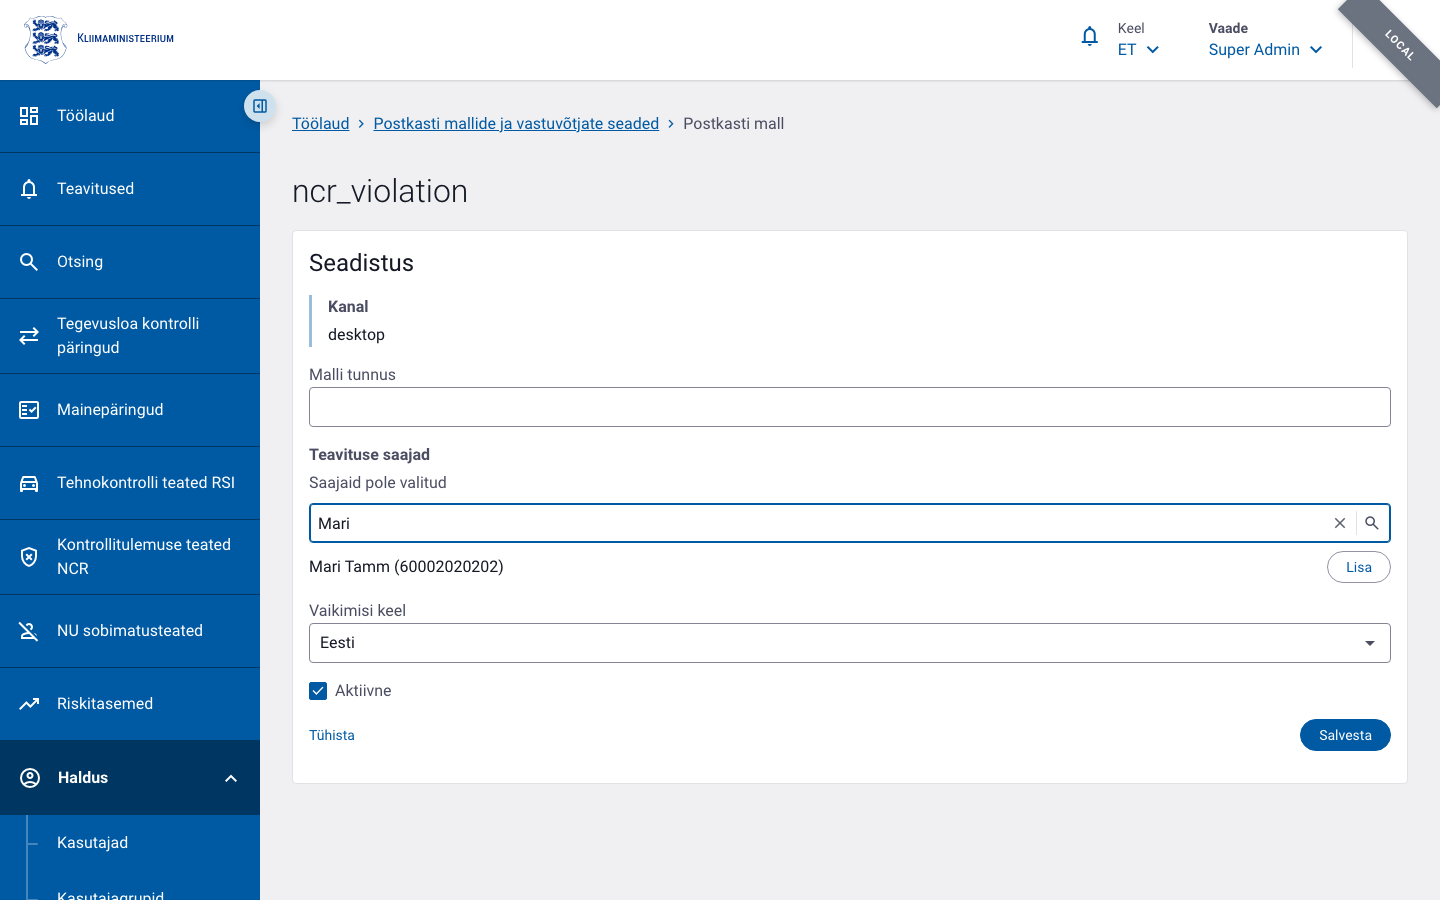
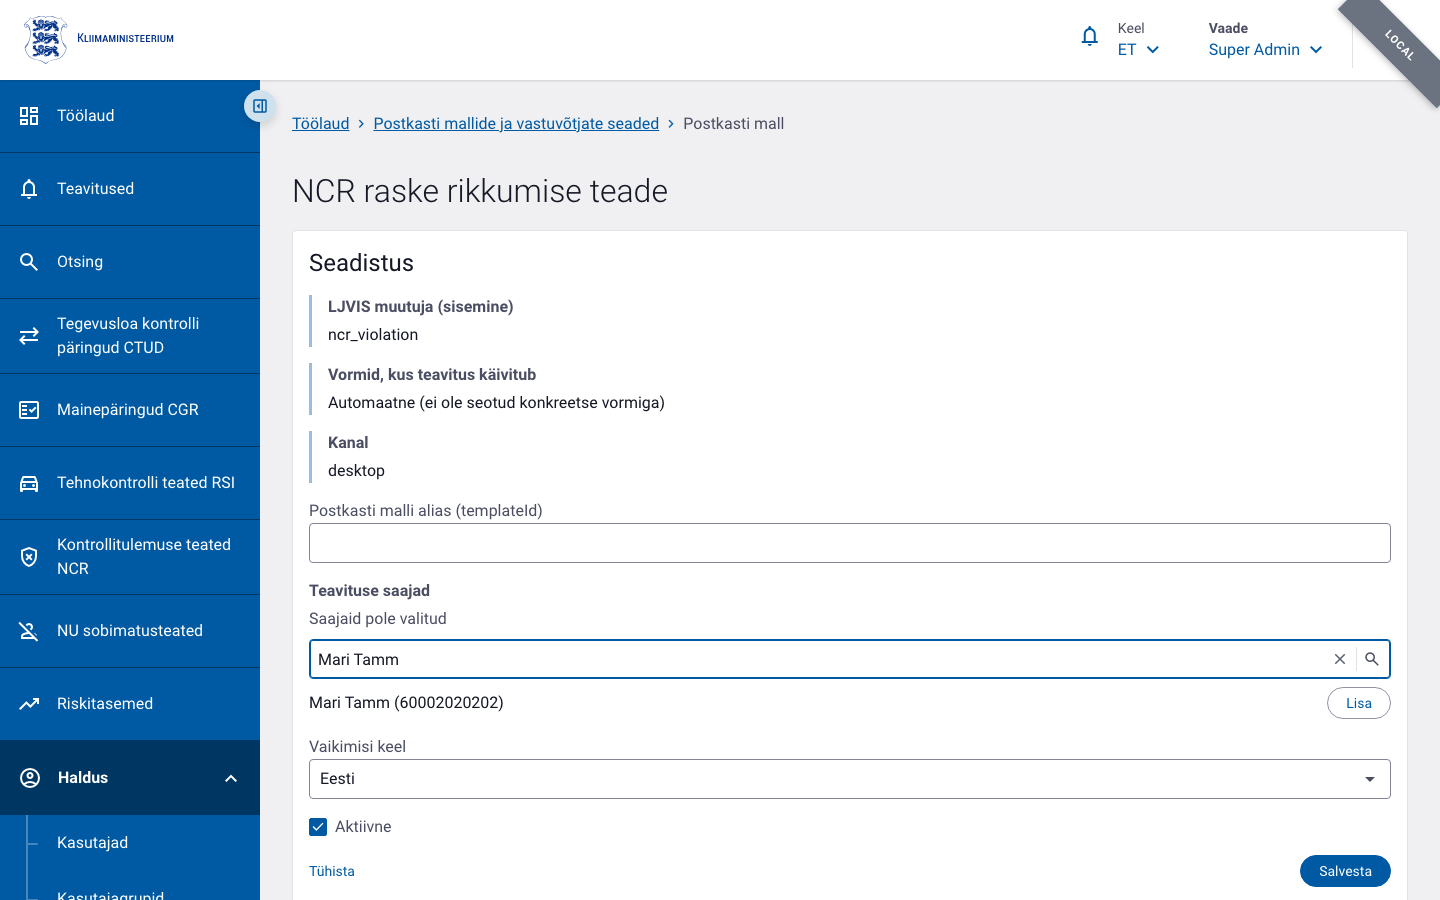
docs(admin-guide): uuendab teavituste halduse ekraanipildid ja juhise
Peegeldab kaks hiljutist muudatust: koondtabel näitab nüüd "Saajad"
veergu (ekraanipilt vahetatud detailvaate asemel), ja saaja otsing
käivitub sisestamise ajal iseseisvalt, mitte Enteri vajutusel. Uued
ekraanipildid tehtud päris brauseris (docker-compose + Playwright),
näitavad täisnime "Mari Tamm" otsingut.

diff --git a/docs/admin-guide/09-teavitused.md b/docs/admin-guide/09-teavitused.md
@@ -161,7 +161,11 @@ teavitus käivitub (**„Vormid, kus teavitus käivitub“**) — teavitused, mi
 tulevad automaatselt sisenevast ERRU sõnumist, mitte kasutaja poolt
 avaldatud LJVIS-vormist, on märgitud kui „Automaatne“.
 
-![Desktop-kanali teavituse vaade](images/09-teavitused/02-desktop-kanali-vaade.png)
+Veerg **„Saajad“** näitab juba koondtabelis, kellele või millisele aadressile
+teavitus läheb — desktop-kanali real kasutaja(te) nime, postkasti kanali real
+vaikimisi vastuvõtja e-posti —, ilma et peaks konkreetset rida avama.
+
+![Postkasti mallide ja vastuvõtjate seaded koos saajate veeruga](images/09-teavitused/02-desktop-kanali-vaade.png)
 
 Iga liigi kohta salvestatakse **uus versioon** (nagu kasutajate ja
 kasutajagruppide puhul) — olemasolevat rida ei muudeta, seega on iga
@@ -198,13 +202,15 @@ mingi õigusega kasutajad.
 
 Muutmisvormis on väli **„Teavituse saajad“** koos otsinguga:
 
-1. Sisesta otsinguväljale **kasutaja nimi** (vähemalt 3 tähemärki) ja vajuta
-   Enter või otsingu ikoonile.
+1. Sisesta otsinguväljale **kasutaja nimi** (vähemalt 3 tähemärki) — tulemused
+   ilmuvad otsingu ajal iseseisvalt, Enterit ega otsingu ikooni vajutada ei
+   ole vaja. Otsing leiab kasutaja nii ees- või perekonnanime kui ka
+   täisnime (nt „Mari Tamm“) järgi.
 2. Vali tulemuste hulgast **„Lisa“** — kasutaja lisandub saajate loendisse.
 3. Vajadusel eemalda saaja loendist nupuga **„Eemalda“**.
 4. Vajuta **„Salvesta“**.
 
-![Desktop-kanali saaja otsing](images/09-teavitused/03-desktop-saaja-otsing.png)
+![Desktop-kanali saaja otsing täisnimega](images/09-teavitused/03-desktop-saaja-otsing.png)
 
 ![Desktop-kanali saaja lisatud](images/09-teavitused/04-desktop-saaja-lisatud.png)
 
